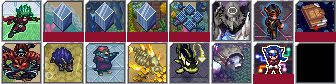
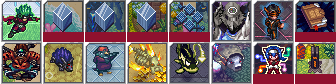
added facility x trophy

Changed region(s): [[0.8631, 0.5, 1.0, 1.0]]

diff --git a/js/trophy-icons.js b/js/trophy-icons.js
@@ -113,6 +113,14 @@ sc.TROPHY_ICONS.BONUS_CIRCUIT_POINTS = {
     customIndex: 14
 }
 
+sc.TROPHY_ICONS.FACILITY_X_KEY = {
+    index: -1,
+    cat: "GENERAL",
+    hidden: false,
+    sheet: "dlc-tweaks",
+    customIndex: 15
+}
+
 
 sc.TrophyIconGraphic.inject({
     customIcons: {
